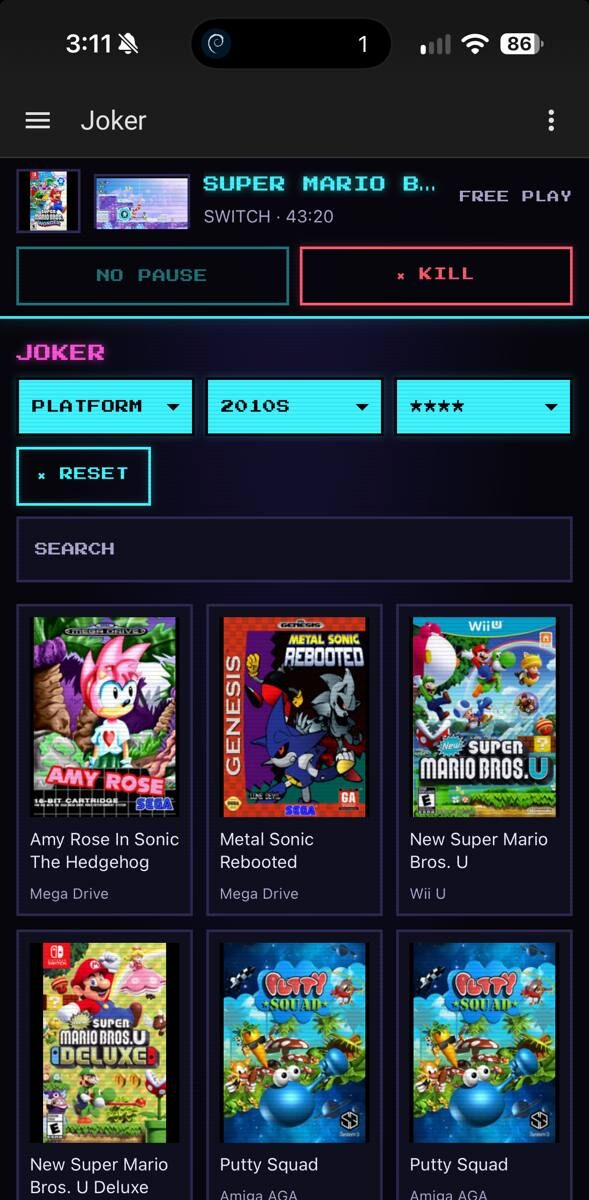
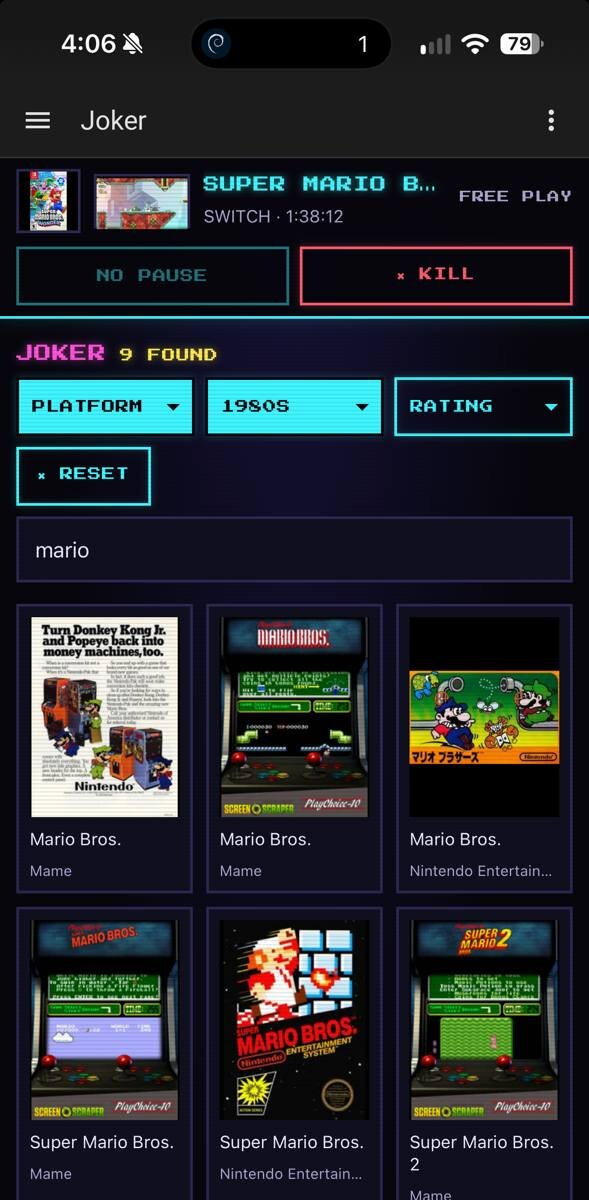
Docs: new screenshots, folders and counters
The home with its game count, filters with a search, a game's details in
the start dialog, and a new one of a system whose ROMs are sorted into
folders by genre. What you get says folders are browsed as such and that
each place counts its games.

diff --git a/README.md b/README.md
@@ -8,10 +8,11 @@ the TV live, quit a stuck game, and set daily playtime limits.
 <p>
   <img src="docs/page-games.jpg" width="300" alt="The Batocera page on a phone: nothing playing, the box's systems as tiles">
   <img src="docs/page-live.webp" width="300" alt="The Batocera page on a phone: Super Mario Bros. Wonder playing, the TV shown live at about one frame a second">
-  <img src="docs/page-home.jpg" width="300" alt="The Batocera page on a phone: a game playing, the filters at the top of the home, the systems by name">
+  <img src="docs/page-home.jpg" width="300" alt="The Batocera page on a phone: a game playing, 11579 games on the box, the filters at the top of the home, the systems by name">
   <img src="docs/page-recent.jpg" width="300" alt="The Batocera page on a phone: the recently played games, the one playing now marked">
-  <img src="docs/page-launch.jpg" width="300" alt="The Batocera page on a phone: starting 1080 Avalanche, which will quit the game playing now">
-  <img src="docs/page-filters.jpg" width="300" alt="The Batocera page on a phone: the home filtered to 2010s platform games of four stars or more, each tile naming its system">
+  <img src="docs/page-folders.jpg" width="300" alt="The Batocera page on a phone: Nintendo 64, 259 games, its ROMs sorted into folders by genre">
+  <img src="docs/page-filters.jpg" width="300" alt="The Batocera page on a phone: the home filtered to 1980s platform games and searched for mario, 9 found, each tile naming its system">
+  <img src="docs/page-launch.jpg" width="300" alt="The Batocera page on a phone: Metal Sonic Rebooted about to start, with its year, genre, players, rating, authors and description, quitting the game playing now">
 </p>
 
 [![Open your Home Assistant instance and open a repository inside the Home Assistant Community Store.](https://my.home-assistant.io/badges/hacs_repository.svg)](https://my.home-assistant.io/redirect/hacs_repository/?owner=vjt&repository=ha-batocera&category=integration)
@@ -19,11 +20,13 @@ the TV live, quit a stuck game, and set daily playtime limits.
 ## What you get
 
 - **A Batocera page** in Home Assistant's sidebar: the box's games with their
-  covers, favourites, recently played, one tile per system and per ROM folder,
+  covers, favourites, recently played, one tile per system and per ROM folder
+  (ROMs sorted into folders, by genre or anything else, are browsed as such),
   a search that works at every level, and the games filtered by genre,
-  decade and rating, in a system or across all of them. Tap a game to see
-  what it is (year, genre, players, rating, who made it, how much it was
-  played, its description), PRESS START, and it starts on the TV.
+  decade and rating, in a system or across all of them. Each place says how
+  many games it holds, and a search or the filters how many they found. Tap a
+  game to see what it is (year, genre, players, rating, who made it, how much
+  it was played, its description), PRESS START, and it starts on the TV.
 - **What is playing**: game, system, emulator, cover, since when, and the
   minutes played today.
 - **The TV screen**, menus included: a screenshot every 15 seconds, and live
